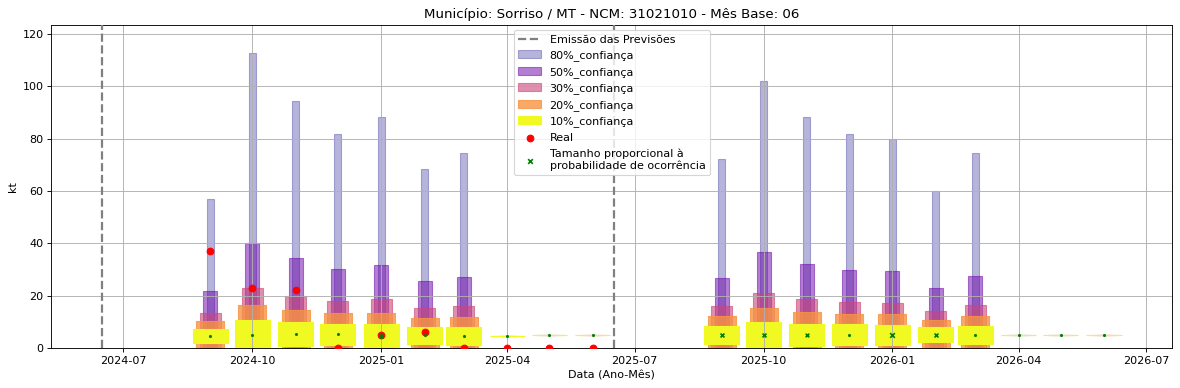
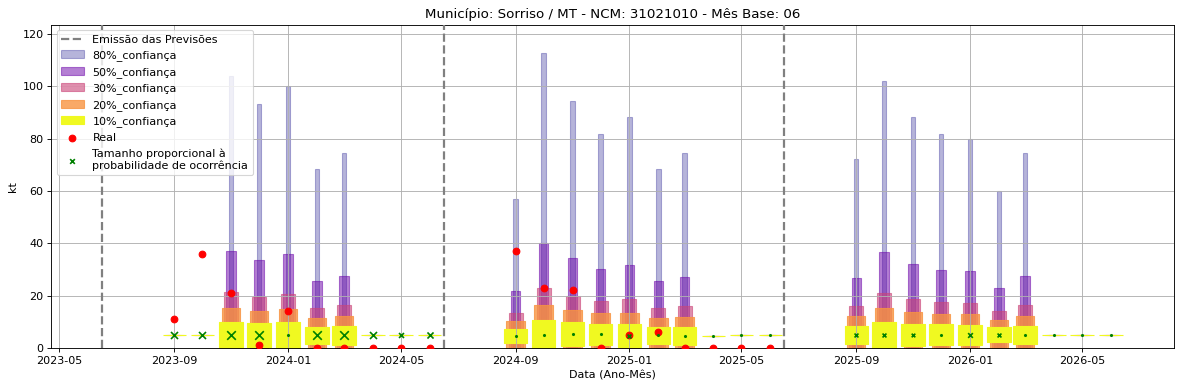
Atualização automática em lote

diff --git a/README.md b/README.md
@@ -17,59 +17,56 @@
 
 ![Gráfico de Previsão](31021010.png)
 
-Fator de Influência em Destaque:
+Fator de Influência em Destaque nos últimos 8 anos:
 
 Previsão Influenciada:
 - Município: Sorriso
 - Produto (NCM): Ureia, mesmo em solução aquosa, com teor de nitrogênio (azoto) superior a 45 %, em peso, calculado sobre o produto anidro no estado seco-31021010 
-- Mês previsto: 10
-
-        Fator Influenciador: Chuva
-        - Unidade mm_lag4
-        - Mês 02
-        - UF PA
+- Mês previsto: 06
 
 
-
+        Fator Influenciador: Comércio Exterior
+        - Produto Adubos (fertilizantes) (31)
+        - UF GO
+        - Unidade sm_diff
+\n
 
 
 
 
 ![Gráfico de Previsão](31022100.png)
 
-Fator de Influência em Destaque:
+Fator de Influência em Destaque nos últimos 8 anos:
 
 Previsão Influenciada:
 - Município: Sorriso
 - Produto (NCM): Sulfato de amônio-31022100 
-- Mês previsto: 03
-
-        Fator Influenciador: Chuva
-        - Unidade mm_lag4
-        - Mês 12
-        - UF PA
+- Mês previsto: 09
 
 
-
+        Fator Influenciador: Comércio Exterior
+        - Produto Adubos (fertilizantes) (31)
+        - UF MT
+        - Unidade sm
+\n
 
 
 
 
 ![Gráfico de Previsão](31042090.png)
 
-Fator de Influência em Destaque:
+Fator de Influência em Destaque nos últimos 8 anos:
 
 Previsão Influenciada:
 - Município: Sorriso
 - Produto (NCM): Outros cloretos de potássio-31042090 
-- Mês previsto: 02
-
-        Fator Influenciador: Chuva
-        - Unidade mm_uf
-        - Mês 01
-        - UF MT
+- Mês previsto: 05
 
 
-
+        Fator Influenciador: Comércio Exterior
+        - Produto Adubos (fertilizantes) (31)
+        - UF MA
+        - Unidade kt_mun
+\n
 
 
